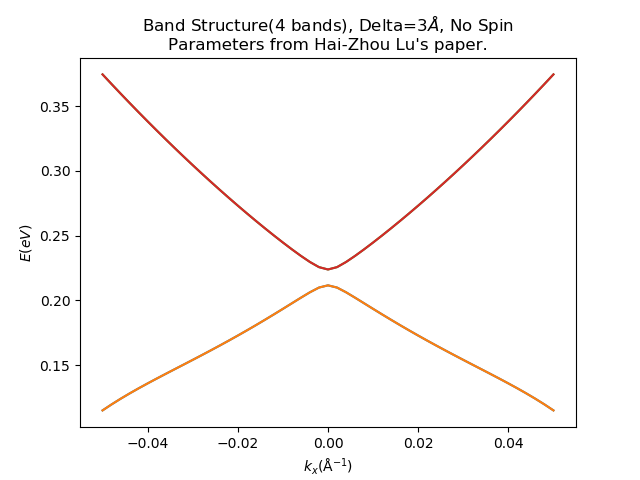
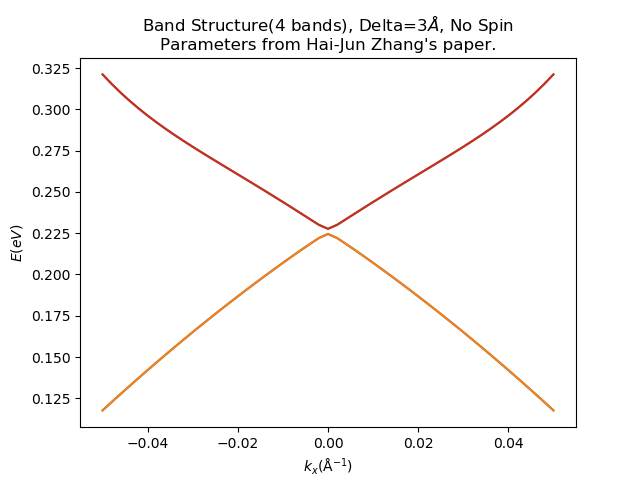
Debug: Wrong in Constant's sign

diff --git a/TI Hamiltonian/_utils.py b/TI Hamiltonian/_utils.py
@@ -35,9 +35,11 @@ CONST_HJZ = {
 }
 
 # Consts from New J. Phys. 12 043048 (2010)
+# B1 and D1 has different signs with their papers, because the M term and E term
+# in different papers have different forms
 CONST_HZL = {
-    "A1": 3.3, "A2": 4.1, "C": -0.0068, "D1": 1.2, "D2": -30.1,
-    "M": 0.28, "B1": 1.5, "B2": -54.1
+    "A1": 3.3, "A2": 4.1, "C": -0.0068, "D1": -1.2, "D2": -30.1,
+    "M": 0.28, "B1": -1.5, "B2": -54.1
 }
 
 
